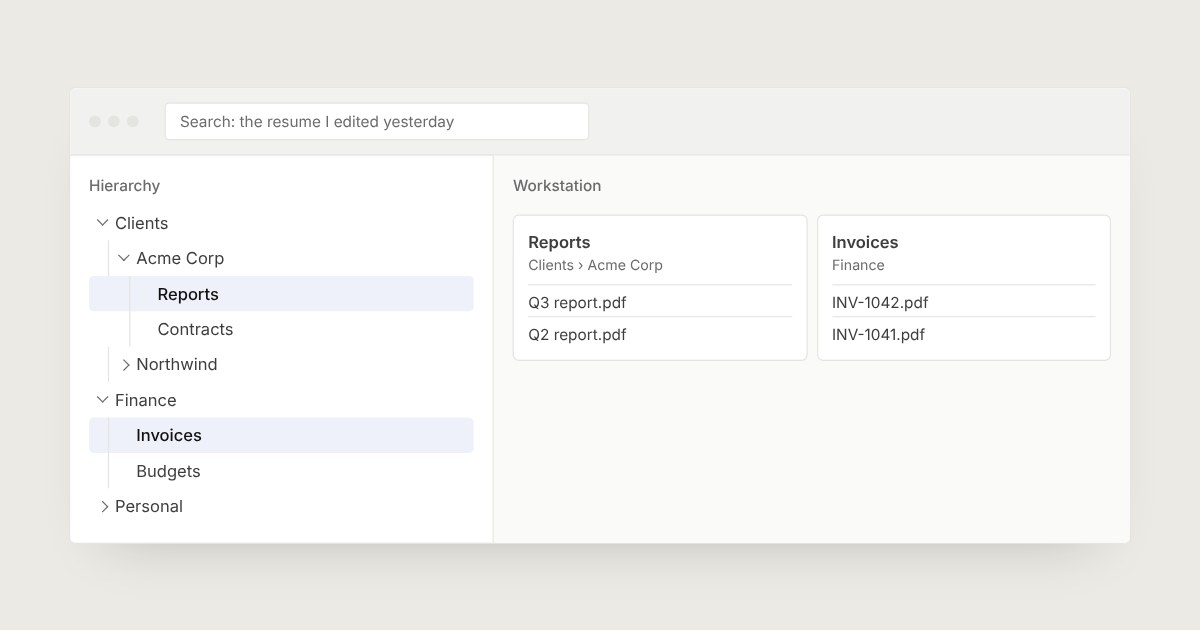
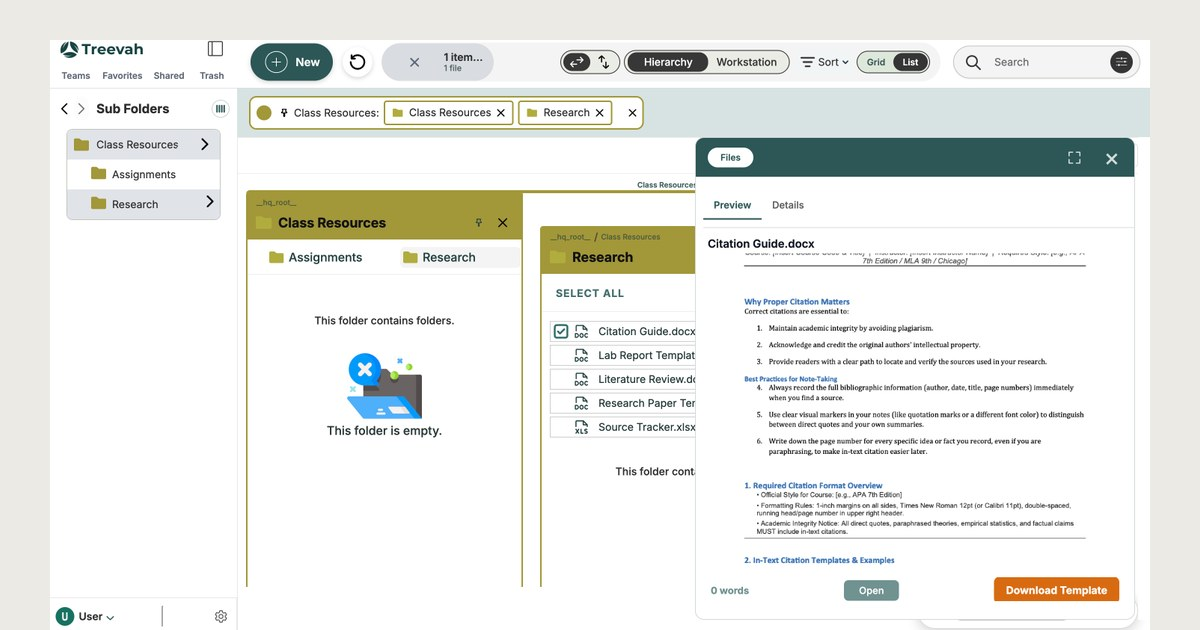
Treevah: add product screenshot (approved by Treevah)
Claude-Session: https://claude.ai/code/session_01GFPVRr6wymu5gXj7JVmzoX

diff --git a/treevah.html b/treevah.html
@@ -457,6 +457,9 @@ td:first-child { width: 30%; }
 <link rel="stylesheet" href="assets/system.css">
 <style>
 /* ---- Treevah ---- */
+.tv-shot { border: 1px solid var(--line); border-radius: 5px; overflow: hidden; background: #fff; box-shadow: 0 24px 48px -32px rgba(0,0,0,.3); }
+.tv-shot img { display: block; width: 100%; height: auto; }
+.tv-stage { max-width: 1088px !important; }
 .tv-hero { padding-top: var(--s3); }
 .tv-stage { max-width: 880px; margin: 0 auto; padding: 0 var(--s2); }
 .tv-win { border: 1px solid var(--line); border-radius: var(--r-l); background: var(--surface); overflow: hidden; box-shadow: 0 24px 48px -32px rgba(0,0,0,.25); }
@@ -603,22 +606,9 @@ td:first-child { width: 30%; }
 </nav>
 
 <header class="hero tv-hero" id="top">
-  <figure class="tv-stage" aria-labelledby="tv-hero-cap">
-    <div class="tv-win" aria-hidden="true">
-      <div class="tv-bar"><i></i><i></i><i></i><span class="tv-q">Search: the resume I edited yesterday</span></div>
-      <div class="tv-split">
-        <div class="tv-tree">
-          <p class="tv-h">Hierarchy</p>
-          <span class="r l0 open">Clients</span><span class="r l1 open">Acme Corp</span><span class="r l2 pk">Reports</span><span class="r l2">Contracts</span><span class="r l1">Northwind</span><span class="r l0 open">Finance</span><span class="r l1 lf pk">Invoices</span><span class="r l1 lf">Budgets</span><span class="r l0">Personal</span>
-        </div>
-        <div class="tv-ws">
-          <p class="tv-h">Workstation</p>
-          <div class="tv-card"><b>Reports</b><small>Clients › Acme Corp</small><span>Q3 report.pdf</span><span>Q2 report.pdf</span></div>
-          <div class="tv-card"><b>Invoices</b><small>Finance</small><span>INV-1042.pdf</span><span>INV-1041.pdf</span></div>
-        </div>
-      </div>
-    </div>
-    <figcaption class="cap" id="tv-hero-cap">A diagram of the idea, not the product: the full folder tree on the left, and only the folders you’re working on pinned on the right.</figcaption>
+  <figure class="tv-stage">
+    <div class="tv-shot"><img src="assets/tv-app.webp" width="1470" height="795" alt="Treevah in Hierarchy mode. A sidebar lists sub folders. Class Resources and Research are pinned in a bar across the top, and open side by side as panels. A file panel on the right previews Citation Guide.docx, with Open and Download Template buttons."></div>
+    <figcaption class="cap">Treevah in Hierarchy mode: pinned folders open side by side, with a file preview on the right.</figcaption>
   </figure>
   <div class="col title">
     <h1>Treevah</h1>
@@ -674,8 +664,8 @@ td:first-child { width: 30%; }
 </section>
 
 <section class="sec col" id="nda" aria-labelledby="h-nda">
-  <h2 id="h-nda">The full story is under NDA</h2>
-  <p>This project is covered by a non-disclosure agreement, so I can’t share screens or research details here. I’m happy to walk through the process, decisions and final designs in a conversation.</p>
+  <h2 id="h-nda">The process is under NDA</h2>
+  <p>This project is covered by a non-disclosure agreement, so I can’t share the research, iterations or full set of screens here. I’m happy to walk through the process, decisions and final designs in a conversation.</p>
   <p class="tv-cta"><a class="btn btn-primary" href="mailto:vedantatram157@gmail.com?subject=Treevah%20case%20study">Ask me about this project</a></p>
 </section>
 
